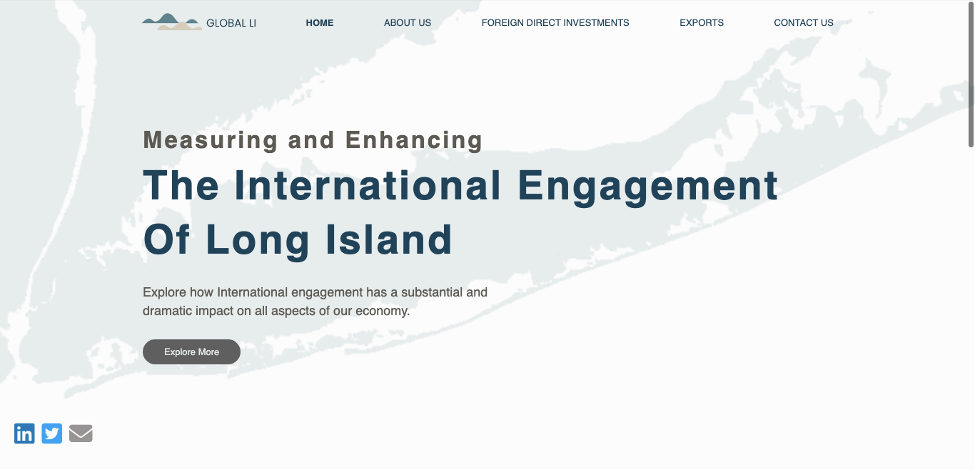
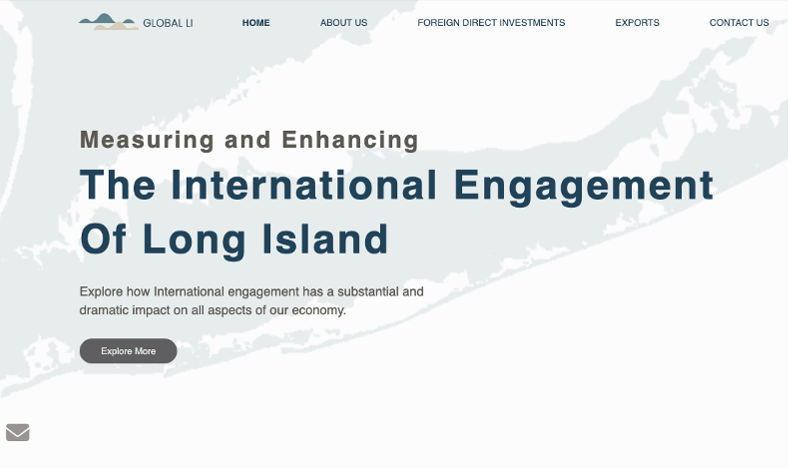
Added navbar among other things

diff --git a/styles/index.css b/styles/index.css
@@ -12,7 +12,6 @@
     --footer-bg-color: #30302F;
     --color-white: #fff;
     --section-padding: 2rem 1.5rem 4rem;
-    /* --box-shadow:  */
     --fs-100: 1.7rem;
     --fs-200: 2.2rem;
     --fs-300: 2.7rem;
@@ -29,6 +28,7 @@
 html {
     font-size: 62.5%;
     box-sizing: border-box;
+    scroll-behavior: smooth;
 }
 
 *, 
@@ -42,6 +42,7 @@ html {
 body {
     font-family: 'Poppins', sans-serif;
     font-size: var(--fs-100);
+    overflow-x: hidden;
 }
 
 img {
@@ -109,7 +110,7 @@ textarea {
 
 
 /* || HEADER AND NAVIGATION */
-.header {
+.navbar {
     position: absolute;
     top: 0;
     left: 0;
@@ -121,7 +122,7 @@ textarea {
     justify-content: space-between;
 }
 
-.header__logo-container {
+.navbar__logo-container {
     color: var(--color-white);
     font-size: var(--fs-400);
     display: flex;
@@ -129,7 +130,7 @@ textarea {
     align-items: center;
 }
 
-.header__menu {
+.navbar__menu {
     cursor: pointer;
     display: flex;
     flex-direction: column;
@@ -138,14 +139,14 @@ textarea {
     gap: 0.8rem;
 }
 
-.header__line {
+.navbar__line {
     height: 0.4rem;
     width: 2.5rem;
     border-radius: 5px;
     background-color: var(--color-white);
 }
 
-.header__line--long {
+.navbar__line--long {
     width: 4.75rem;
 }
 
@@ -213,7 +214,7 @@ textarea {
     height: 100%;
     width: 100%;
     z-index: -1;
-    background-color: #0d1b2a76;
+    background-color: #0d1b2a84;
 }
 
 .hero__titles {
@@ -229,7 +230,7 @@ textarea {
 }
 
 .hero__subtitle {
-    font-size: var(--fs-300);
+    font-size: var(--fs-200);
     font-weight: 400;
 }
 
@@ -259,6 +260,7 @@ textarea {
 .about__social-icons {
     margin: 1rem;
     display: flex;
+    justify-content: center;
     gap: 1.5rem;
 }
 
@@ -300,9 +302,8 @@ textarea {
 
 .projects__cards-container {
     margin: 3rem 0 0;
-    display: flex;
-    flex-direction: column;
-    align-items: center;
+    display: grid;
+    grid-template-columns: 1fr;
     gap: 3rem;
 }
 
@@ -425,6 +426,7 @@ textarea {
     padding: 0.5rem;
     font-weight: 600;
     cursor: pointer;
+    transition: opacity 0.3s;
 }
 
 .contact__btn:hover {
@@ -527,20 +529,20 @@ textarea {
     }
     
     /* || HEADER AND NAVIGATION */
-    .header__logo-container {
+    .navbar__logo-container {
         font-size: var(--fs-500);
     }
     
-    .header__menu {
+    .navbar__menu {
         gap: 0.6rem;
     }
 
-    .header__line {
+    .navbar__line {
         height: 0.4rem;
         width: 3rem;
     }
 
-    .header__line--long {
+    .navbar__line--long {
         width: 5rem;
     }
 
@@ -603,12 +605,21 @@ textarea {
 }
 
 @media (min-width: 600px) {
+    /* || GENERAL STYLES */
+    .section-title {
+        padding-left: 2.5rem;
+    }
+
     /* || HEADER AND NAVIGATION */
-    .header__menu {
+    .navbar__menu {
         gap: 0.8rem;
     }
 
     /* || HERO SECTION */
+    .hero__titles {
+        margin-bottom: 25rem;
+    }
+
     .hero__title {
         font-size: var(--fs-800);
     }
@@ -617,9 +628,86 @@ textarea {
     }
 
     /* || PROJECTS SECTION */
+    .projects__cards-container {
+        padding: 0 2rem;
+    }
+
     .card__img {
         height: 30rem;
     }
+
+    /* || CONTACT SECTION */
+    .contact__subtitle {
+        font-size: var(--fs-300);
+        margin-bottom: 2rem;
+    }
+
+    .contact__form {
+        max-width: 80%;
+        margin: 0 auto;
+    }
 }
 
-/* NOTE: Continue with the styles at 600px... */
+@media (min-width: 1000px) {
+    /* || ABOUT SECTION */
+    .about {
+        padding: 10rem 2.5rem;
+        flex-direction: row;
+    }
+
+    .about__profile {
+        width: 40%;
+    }
+
+    .about__content {
+        width: 60%;
+    }
+
+    /* || PROJECTS SECTION */
+    .projects__cards-container {
+        grid-template-columns: 1fr 1fr;
+    }
+}
+
+@media (min-width: 1100px) {
+    /* || HEADER AND NAVIGATION */
+    .navbar__menu {
+        display: none;
+    }
+
+    .nav {
+        display: block;
+        color: var(--color-white);
+    }
+
+    .nav__list {
+        font-size: var(--fs-200);
+        display: flex;
+        align-items: center;
+        gap: 3rem;
+    }
+
+    .nav__link {
+        position: relative;
+    }
+
+    .nav__link::after {
+        content: '';
+        position: absolute;
+        top: 100%;
+        left: 0;
+        height: 0.2rem;
+        width: 0;
+        background-color: var(--color-white);
+        transition: width 0.3s;
+    }
+
+    .nav__link:hover::after {
+        width: 100%;
+    }
+
+    /* || HERO SECTION */
+    .hero__titles {
+        margin-bottom: 18rem;
+    }
+}

diff --git a/index.html b/index.html
@@ -13,16 +13,24 @@
 <body class="page">
     <div class="page__inner">
         <!-- HEADER AND NAVIGATION -->
-        <header class="header">
-            <div class="header__logo-container">
-                <i class="header__logo fa-solid fa-code"></i>
+        <div class="navbar">
+            <div class="navbar__logo-container">
+                <i class="navbar__logo fa-solid fa-code"></i>
             </div>
-            <div class="header__menu">
-                <span class="header__line"></span>
-                <span class="header__line header__line--long"></span>
-                <span class="header__line"></span>
+            <div class="navbar__menu">
+                <span class="navbar__line"></span>
+                <span class="navbar__line navbar__line--long"></span>
+                <span class="navbar__line"></span>
             </div>
-        </header>
+            <nav class="nav hidden">
+                <ul class="nav__list">
+                    <li><a href="#hero" class="nav__link">Home</a></li>
+                    <li><a href="#about" class="nav__link">About</a></li>
+                    <li><a href="#projects" class="nav__link">Projects</a></li>
+                    <li><a href="#contact" class="nav__link">Contact</a></li>
+                </ul>
+            </nav>
+        </div>
 
         <!-- COLLAPSABLE NAVIGATION -->
         <div class="collapsable hidden">
@@ -49,18 +57,20 @@
 
         <!-- ABOUT SECTION -->
         <section id="about" class="about">
-            <div class="about__photo-container">
-                <img src="./images/profile-img.png" alt="Carlos Duque's profile image" class="about__photo">
-            </div>  
-            <div class="about__social-icons">
-                <div class="social-icon">
-                    <a href="https://github.com/CDDR1" class="github-link" target="_blank"><i class="github-icon fa-brands fa-github"></i></a>
+            <div class="about__profile">
+                <div class="about__photo-container">
+                    <img src="./images/profile-img.png" alt="Carlos Duque's profile image" class="about__photo">
                 </div>
-                <div class="social-icon">
-                    <a href="https://www.linkedin.com/in/carlosduq/" class="linkedin-link" target="_blank"><i class="linkedin-icon fa-brands fa-linkedin"></i></a>
-                </div>
-                <div class="social-icon">
-                    <a href="https://devpost.com/CDDR1?ref_content=user-portfolio&ref_feature=portfolio&ref_medium=global-nav" class="devpost-link" target="_blank"><i class="award-icon fa-solid fa-award"></i></a>
+                <div class="about__social-icons">
+                    <div class="social-icon">
+                        <a href="https://github.com/CDDR1" class="github-link" target="_blank"><i class="github-icon fa-brands fa-github"></i></a>
+                    </div>
+                    <div class="social-icon">
+                        <a href="https://www.linkedin.com/in/carlosduq/" class="linkedin-link" target="_blank"><i class="linkedin-icon fa-brands fa-linkedin"></i></a>
+                    </div>
+                    <div class="social-icon">
+                        <a href="https://devpost.com/CDDR1?ref_content=user-portfolio&ref_feature=portfolio&ref_medium=global-nav" class="devpost-link" target="_blank"><i class="award-icon fa-solid fa-award"></i></a>
+                    </div>
                 </div>
             </div>
             <div class="about__content">

diff --git a/scripts/mobile-nav.js b/scripts/mobile-nav.js
@@ -1,4 +1,4 @@
-const menu = document.querySelector(".header__menu");
+const menu = document.querySelector(".navbar__menu");
 const closeMenuBtn = document.querySelector(".collapsable__close-btn");
 const nav = document.querySelector(".collapsable");
 const navLinks = document.querySelectorAll(".collapsable__link");
